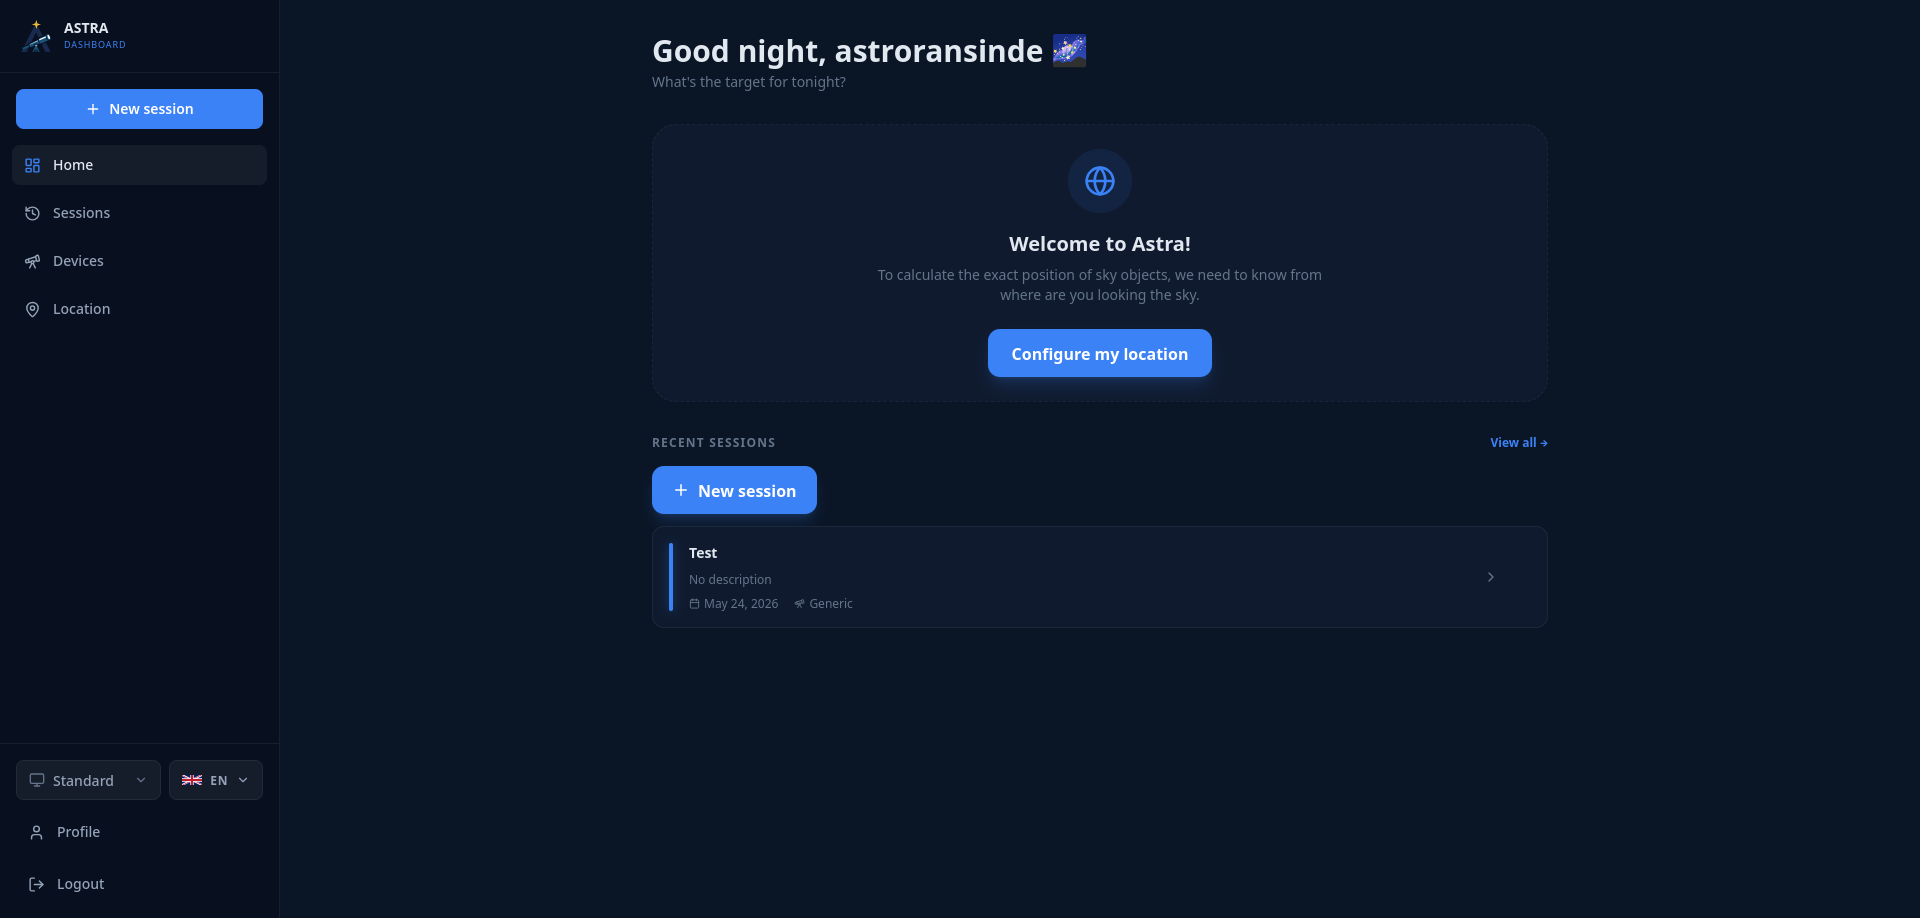
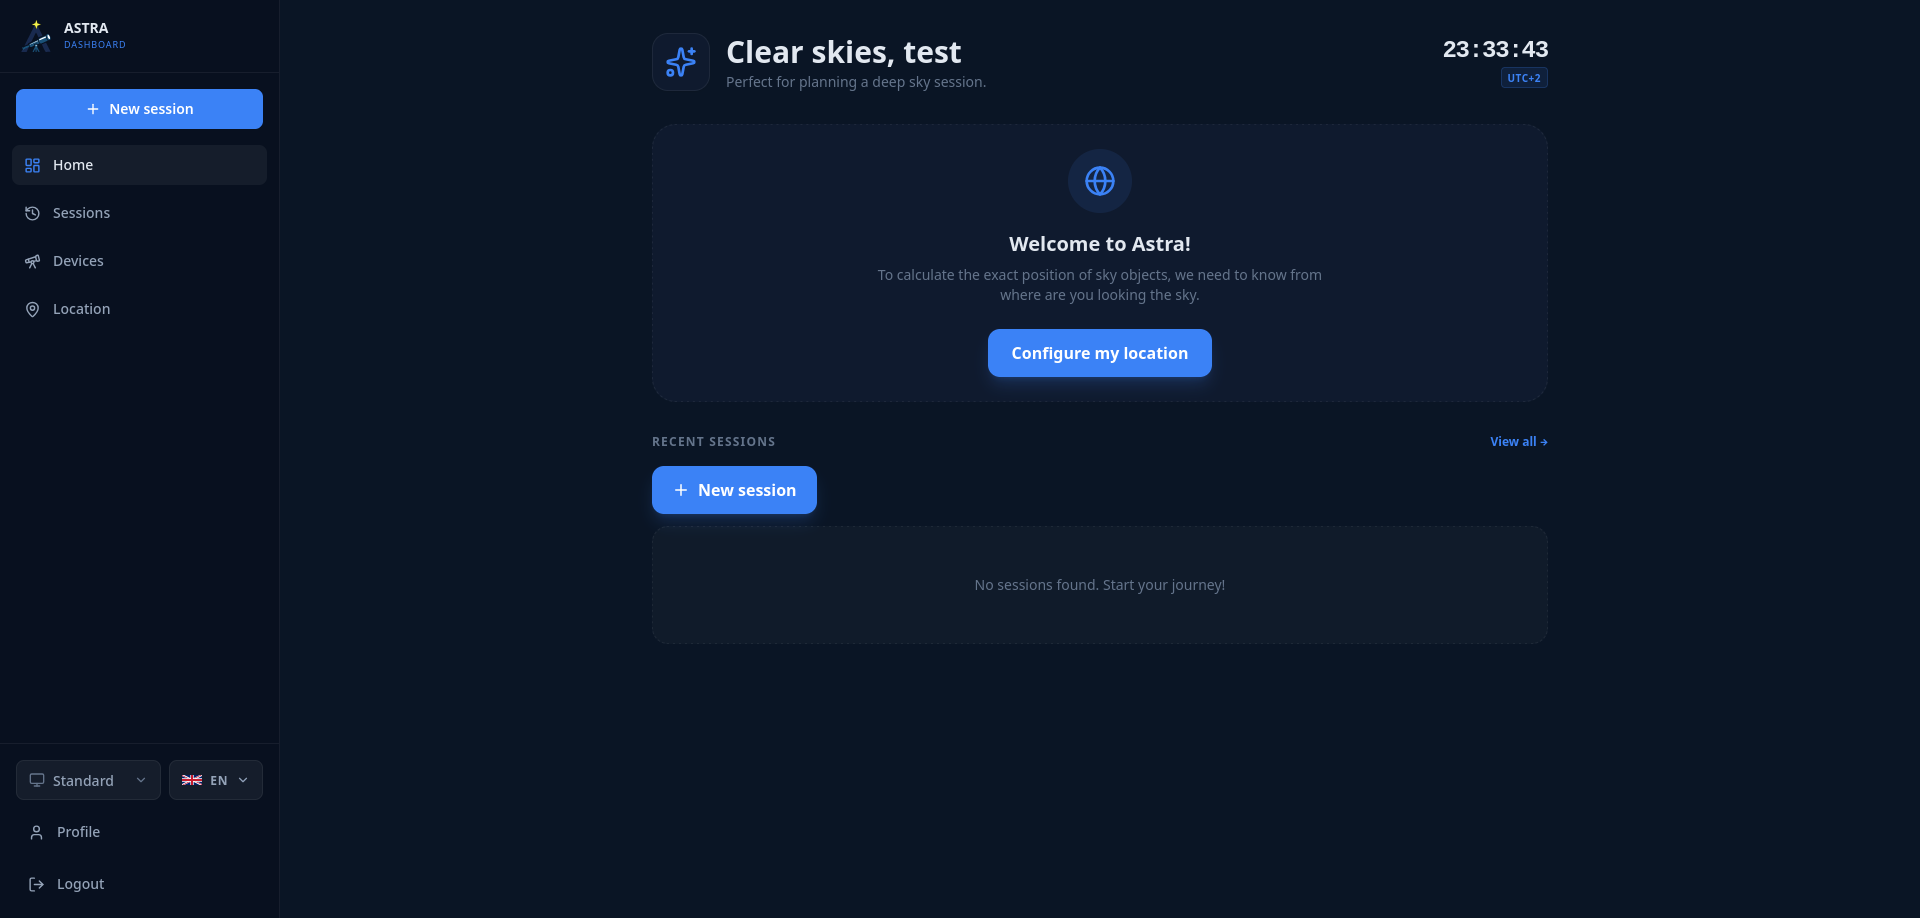
readme improvements

diff --git a/astra_ui/src/app.html b/astra_ui/src/app.html
@@ -22,13 +22,13 @@
 		<meta property="og:type" content="website" />
 		<meta property="og:title" content="ASTRA Astronomy" />
 		<meta property="og:description" content="Control your telescope with AI, explore the 3D night sky, and automate your observation sessions." />
-		<meta property="og:image" content="/favicon.svg" />
+		<meta property="og:image" content="/og-banner.png" />
 
 		<!-- Twitter -->
 		<meta name="twitter:card" content="summary_large_image" />
 		<meta name="twitter:title" content="ASTRA Astronomy" />
 		<meta name="twitter:description" content="Control your telescope with AI, explore the 3D night sky, and automate your observation sessions." />
-		<meta name="twitter:image" content="/favicon.svg" />
+		<meta name="twitter:image" content="/og-banner.png" />
 
 		%sveltekit.head%
 	</head>

diff --git a/README.md b/README.md
@@ -1,6 +1,6 @@
 <div align="center">
   <img src="assets/astra_main.svg" alt="ASTRA Logo" width="300">  
-  <p><strong>Automated Smart Telescope Remote Assistant</strong></p>
+  <h3><strong>Automated Smart Telescope Remote Assistant</strong></h3>
 
   <p>
     <img src="https://img.shields.io/badge/License-AGPL_v3-orange.svg" alt="License: AGPL v3">
@@ -16,12 +16,15 @@
 
 ## 🌌 What is ASTRA?
 
-**ASTRA** is an open-source **Unified Astronomy Platform** that bridges the gap between complex astronomical hardware and the modern web. It provides a complete ecosystem for remote observatory management, celestial discovery, and automated equipment control.
+**ASTRA** is an open-source **Unified Astronomy Platform** designed to bridge the gap between complex astronomical hardware and the modern web. It provides a complete ecosystem for remote observatory management, real-time celestial navigation, and automated equipment control.
 
-**Why was ASTRA built?**
-Traditional astronomy setups often require a dedicated Windows (ASCOM) or Linux laptop running heavy desktop software (like KStars or Stellarium) right next to the telescope, filled with overwhelming buttons and complex configurations. ASTRA solves this by decoupling the hardware from the interface. 
+Traditional astronomy setups often require a dedicated, heavy desktop computer application tethered directly to the telescope, filled with overwhelming menus and complex configurations for amateurs. 
 
-With ASTRA, your equipment runs via a lightweight edge node, while you control everything from a clean, web-based dashboard on any device. More importantly, it features an integrated AI assistant designed for occasional observers: instead of fighting with menus or wondering what's up in the sky tonight, you can simply ask the assistant to find targets for you.
+**ASTRA breaks this barrier by decoupling the hardware from the interface.** By using a distributed architecture, it allows you to run your equipment via a lightweight edge node while you control everything from a clean, high-performance web dashboard. Whether you are a seasoned astrophotographer or an occasional observer, ASTRA ensures you spend less time fighting with settings and more time discovering the wonders of the night sky.
+
+<div align="center">
+  <img src="assets/sim_ui.png" alt="ASTRA Simulation Interface" width="100%" style="border-radius: 10px; margin-top: 20px; border: 1px solid #1e293b;">
+</div>
 
 
 ## ✨ Key Features
@@ -56,11 +59,48 @@ An optional, model-agnostic layer to simplify complex workflows.
 
 ASTRA uses a containerized microservices architecture:
 
-- **astra_ui:** Modern Svelte 5 frontend with real-time 3D visualizations.
+- **astra_ui:** Svelte 5 frontend with real-time 3D visualizations.
 - **astra_api:** Central coordinator, session manager, and AI router.
 - **astra_auth:** Secure JWT-based authentication and access control.
-- **sideris:** High-performance celestial physics engine.
+- **astra_edge:** Hardware abstraction layer (INDI).
+- **sideris:** Specialized service for catalog lookups and ephemerides.
 - **Kong Gateway:** Unified entry point and secure routing.
+
+## 🚀 Getting Started
+
+For detailed deployment instructions and technical overview, please refer to the documentation:
+
+- [🏗 Architecture Overview](docs/ARCHITECTURE.md)
+- [🚀 Detailed Deployment Guide](docs/DEPLOY_GUIDE.md)
+- [🛰 Edge Node (Hardware) Guide](docs/EDGE_GUIDE.md)
+- [📖 User Guide](docs/user_guide/USER_GUIDE.md)
+
+### Prerequisites
+- Docker and Docker Compose.
+- (Optional) An INDI-compatible telescope or simulator.
+
+### Quick Start
+1. **Clone the repository:**
+   ```bash
+   git clone https://github.com/jesusbasalloteinfo/Astra.git
+   cd Astra
+   ```
+
+2. **Setup environment:**
+   ```bash
+   cp example.env .env
+   # Edit .env and add your AI_API_KEY for the assistant
+   ```
+
+3. **Launch the platform:**
+   ```bash
+   docker compose up -d
+   ```
+
+4. **Access the UI:**
+   Open your browser and navigate to `http://localhost:8000`.
+
+
 
 
 ## 🛠 Tech Stack
@@ -70,61 +110,27 @@ ASTRA uses a containerized microservices architecture:
 - **Protocols:** INDI (Hardware), WebSockets (Real-time), REST (API).
 - **DevOps:** Docker, Docker Compose, Kong Gateway.
 
-
-
-## 🚀 Getting Started
-
-For detailed deployment instructions and technical overview, please refer to the documentation:
-
-- [🚀 Deployment Guide](docs/DEPLOY_GUIDE.md)
-- [🏗 Architecture Guide](docs/ARCHITECTURE.md)
-- [🛰 Edge Node (Hardware) Guide](docs/EDGE_GUIDE.md)
-- [📖 User Guide](docs/user_guide/USER_GUIDE.md)
-
-
-
-1. **Clone & Setup environment:**
-   ```bash
-   git clone https://github.com/your-username/astra-project.git
-   cd astra-project
-   cp example.env .env
-   ```
-
-2. **Launch:**
-   ```bash
-   docker compose up -d
-   ```
-
-3. **Explore:**
-    Navigate to `http://localhost:8000` to access the unified dashboard.
-
-
 ## 📁 Project Structure
 
 ```text
-├── astra_api/      # Core Backend (FastAPI)
-├── astra_auth/     # Authentication Service
-├── astra_edge/     # Hardware Abstraction Layer (INDI)
+├── astra_api/      # Core Coordination API
+├── astra_auth/     # Authentication & User Service
+├── astra_edge/     # INDI Hardware Node
 ├── astra_ui/       # Svelte 5 Frontend
-├── sideris/        # Catalog & Ephemerides Service
-├── gateway/        # Kong Gateway Configuration
-├── assets/         # Project Branding & Logos
-└── docker-compose.yml
+├── sideris/        # Physics & Catalog Engine
+└── gateway/        # Kong API Gateway
 ```
-
 
 ## 🌱 Project Status
 
-ASTRA is a new project currently in active development! I am focusing on building the core features and am not quite ready to accept pull requests just yet. However, feel free to open an issue to share your feedback or report bugs.
-
-
+ASTRA is currently in active development! I am focusing on core features and stability. While I am not accepting major pull requests just yet, your feedback is highly valuable. Please feel free to open an **Issue** to report bugs or suggest enhancements.
 
 ## 📜 License
 
-This project is licensed under the **AGPL v3 License** - see the [LICENSE](LICENSE) file for details.
+Distributed under the **AGPL v3 License**. See [LICENSE](LICENSE) for more information.
 
-
+---
 
 <div align="center">
-  <p>Clear skies and happy observing! 🔭</p>
+  <p><strong>Clear skies and happy observing! 🔭</strong></p>
 </div>
